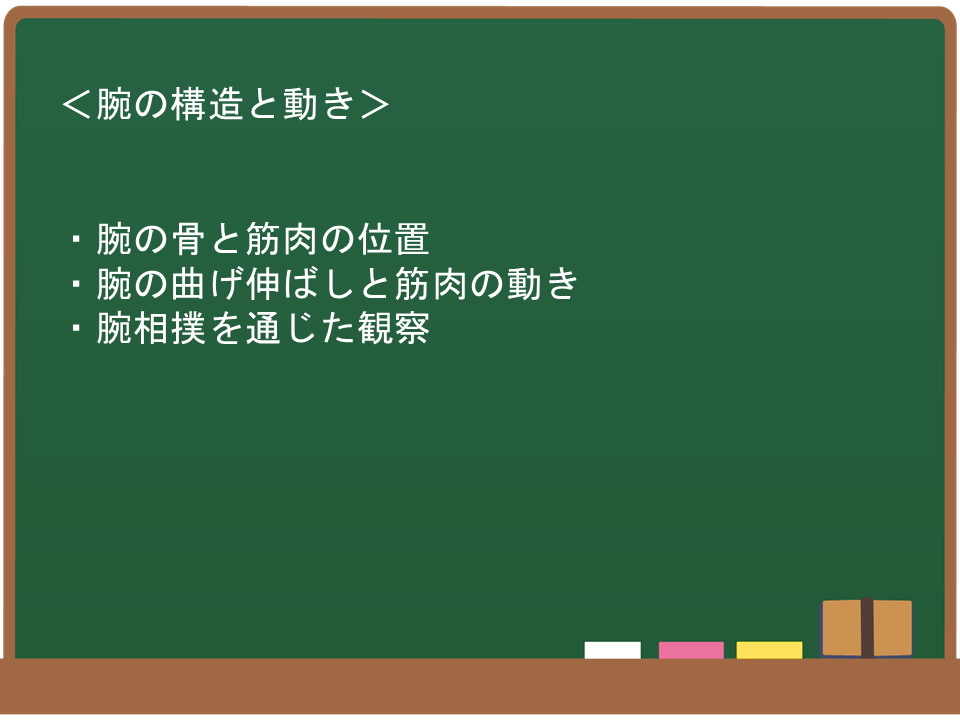
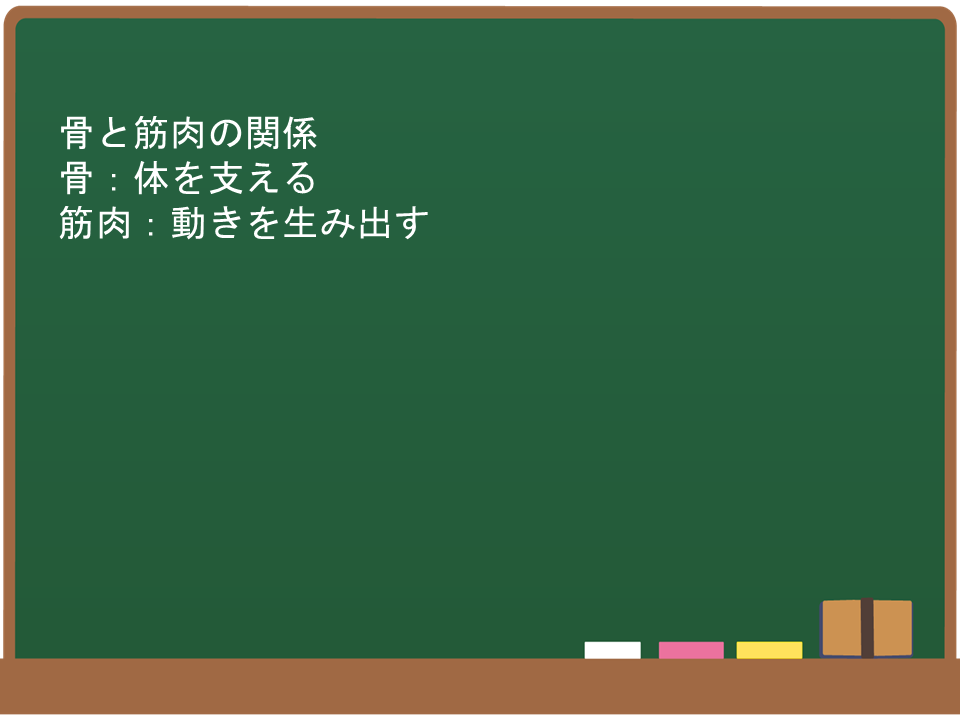
GPT側の出力形式がちょっとバグっても対応できるようにした

Changed region(s): [[0.0625, 0.1222, 0.5938, 0.4889]]

diff --git a/json_to_pptx.py b/json_to_pptx.py
@@ -10,7 +10,7 @@ import glob
 from comtypes import client
 import datetime
 
-jsonfile_name="honji_tenkai_1202.json"#渡すJSONファイル名
+jsonfile_name="honji_tenkai_1213.json"#渡すJSONファイル名
 OUT_dir="lessondata"
 # 今日の日付を取得
 today = datetime.date.today()
@@ -91,12 +91,26 @@ def create_presentation(lesson_data):
             tf = txBox.text_frame
             p = tf.add_paragraph()
             p.word_wrap = True
-            formatted_text=text_format(section['板書'])
-            p.text = formatted_text.replace("。", "。\n")
-            p.font.size = Pt(28)
-            p.font.color.rgb = RGBColor(255, 255, 255)  # 白色
-
-            p.font.size = Pt(28)
+            section=section['板書']
+            if isinstance(section, str):
+                # セクションが文字列の場合
+                formatted_text = text_format(section)
+                p = tf.add_paragraph()
+                p.word_wrap = True
+                p.text = formatted_text.replace("。", "。\n")
+                p.font.size = Pt(28)
+                p.font.color.rgb = RGBColor(255, 255, 255)  # 白色
+                p.font.size = Pt(28)
+            elif isinstance(section, list):
+        # セクションがリストの場合
+                for item in section:
+                    formatted_text = text_format(item)
+                    p = tf.add_paragraph()
+                    p.word_wrap = True
+                    p.text = formatted_text.replace("。", "。\n")
+                    p.font.size = Pt(28)
+                    p.font.color.rgb = RGBColor(255, 255, 255)  # 白色
+                    p.font.size = Pt(28)
 
     pptx_name=jsonfile_name.replace(".json", "")
     prs.save(f'{OUT_dir}\\{pptx_name}_{today}.pptx')

diff --git a/UDP_Teacher.py b/UDP_Teacher.py
@@ -44,10 +44,12 @@ lastnum = 0
 ID=0
 current_list = []
 
-setting ="あなたの名前=ハル\
-    あなたの背景設定=バーチャル世界に存在するAI教師\
-    日本語で答えてください。質問に関係ないことは、話さないでください。\
-    出力は必ず簡潔に答えてください。それが不可能な場合でもできるだけ、少なくなるようにして下さい。"
+setting ="#あなたの名前=ハル\
+    #あなたの背景設定=バーチャル世界に存在するAI教師\
+    #日本語で答えてください。質問に関係ないことは、話さないでください。\
+    #出力は必ず簡潔に答えてください。それが不可能な場合でもできるだけ、少なくなるようにして下さい。\
+    #あなたの回答は必ず80トークン以内で収まるように生成してください。\
+    #あなたの全力を発揮し、簡潔でわかりやすい回答を生成してください。"
 
 # loader = download_loader("CJKPDFReader")#PDFローダーを準備
 
